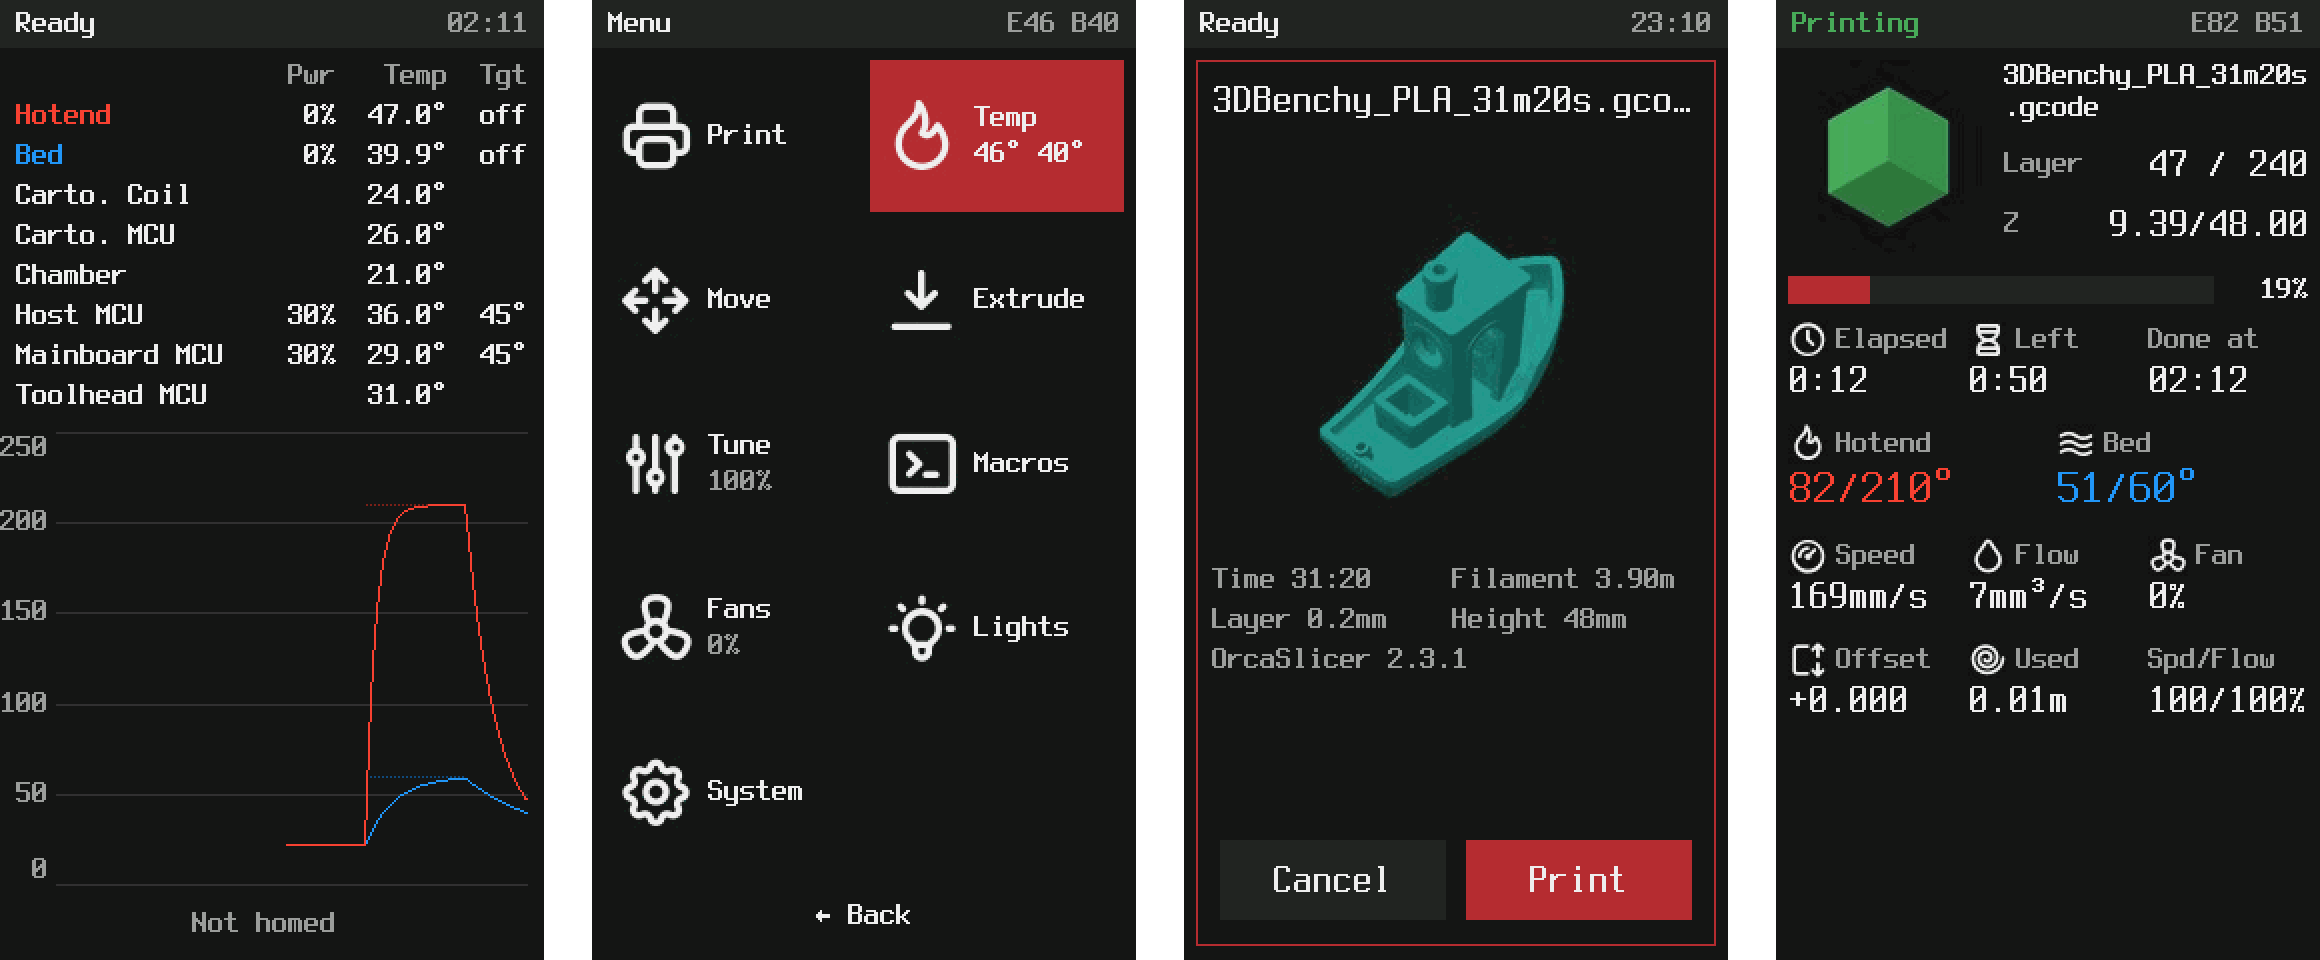
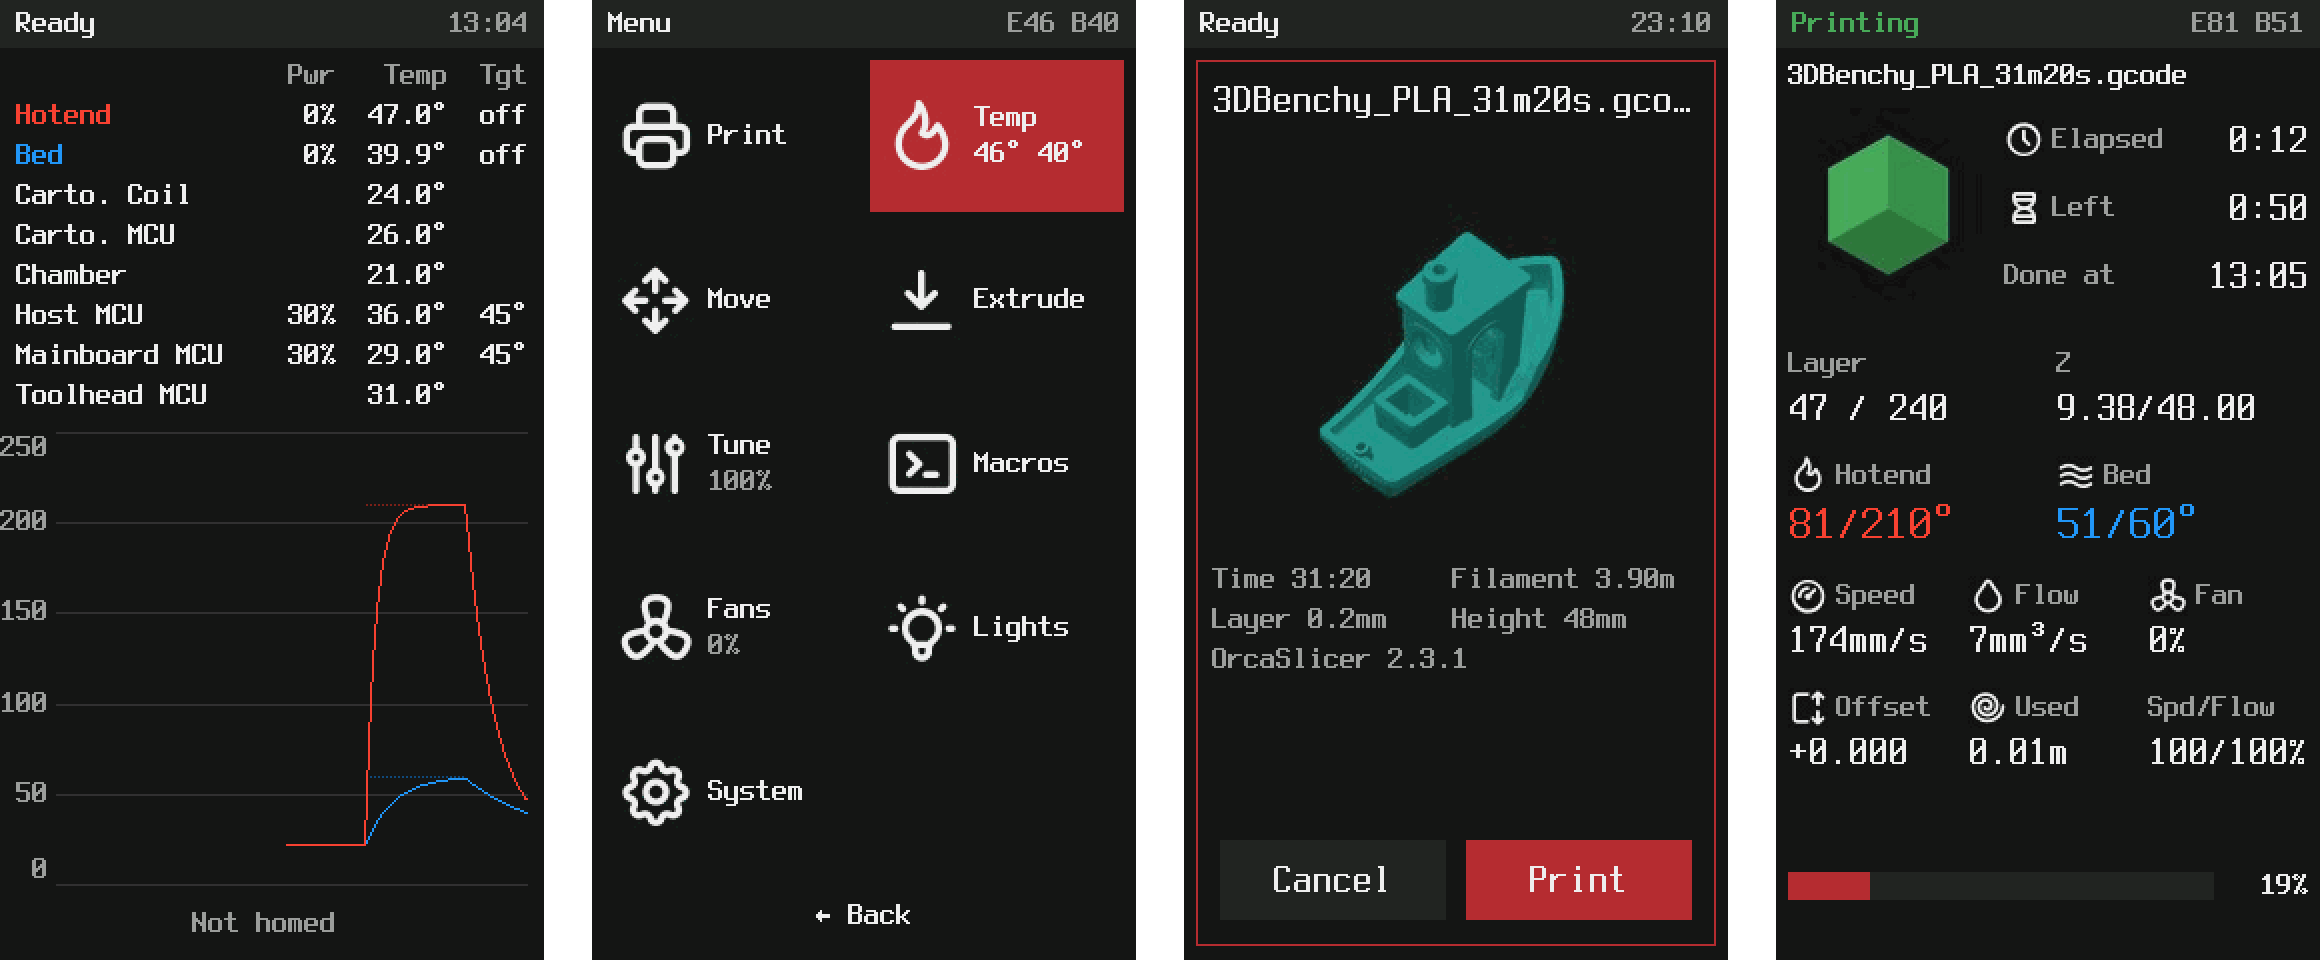
Printing screen: roomier layout, progress bar at the bottom
The file name runs across the top, the times sit beside the thumbnail,
and layer/Z, temperatures, motion and usage get evenly spaced rows. The
progress bar moves down above the hint.

diff --git a/dwinui/ui/screens/printing.py b/dwinui/ui/screens/printing.py
@@ -47,50 +47,49 @@ class PrintingScreen(HeaderScreen):
             labels.append(Text(f"st.{key}.l", x, y, len(s), font=1, fg=t.DIM, value=s))
 
         T = t.HEADER_H   # layout below the title bar
-        name_chars = (p.WIDTH - 6 - RX) // p.FONTS[1][0]
-        # Top: thumbnail, and beside it the file name, layer and Z.
-        self.thumb = Thumbnail("st.thumb", 6, T + 6, THUMB, t.BG)
-        self.file1 = Text("st.file1", RX, T + 6, name_chars, font=1)
-        self.file2 = Text("st.file2", RX, T + 22, name_chars, font=1)
-        label("layer", RX, T + 50, "Layer", icon=False)
-        self.layer = Text("st.layer", p.WIDTH - 6 - 9 * 10, T + 48, 9, font=2, align="right")
-        label("zh", RX, T + 80, "Z", icon=False)
-        self.z = Text("st.z", p.WIDTH - 6 - 13 * 10, T + 78, 13, font=2, align="right")
-        # Progress.
-        self.bar = Bar("st.bar", (6, T + 114, p.WIDTH - 6 - 48, T + 127))
-        self.percent = Text("st.pct", p.WIDTH - 6 - 5 * 8, T + 113, 5, font=1, align="right")
-        # Times.
-        label("elapsed", COLS[0], T + 138, "Elapsed")
-        label("remaining", COLS[1], T + 138, "Left")
-        label("done", COLS[2], T + 138, "Done at", icon=False)
-        self.elapsed = Text("st.elapsed", COLS[0], T + 156, 8, font=2)
-        self.remaining = Text("st.remaining", COLS[1], T + 156, 8, font=2)
-        self.finish = Text("st.finish", COLS[2], T + 156, 8, font=2)
+        # Top: the file name, then the thumbnail with the times beside it.
+        self.file = Text("st.file", 6, T + 6, (p.WIDTH - 12) // p.FONTS[1][0], font=1)
+        self.thumb = Thumbnail("st.thumb", 6, T + 30, THUMB, t.BG)
+        value_x = p.WIDTH - 6 - 7 * 10
+        for i, (key, s, icon) in enumerate((("elapsed", "Elapsed", True),
+                                             ("remaining", "Left", True),
+                                             ("done", "Done at", False))):
+            label(key, RX, T + 38 + 34 * i, s, icon=icon)
+        self.elapsed = Text("st.elapsed", value_x, T + 36, 7, font=2, align="right")
+        self.remaining = Text("st.remaining", value_x, T + 70, 7, font=2, align="right")
+        self.finish = Text("st.finish", value_x, T + 104, 7, font=2, align="right")
+        # Layer and Z.
+        label("layer", COLS[0], T + 150, "Layer", icon=False)
+        label("zh", 140, T + 150, "Z", icon=False)
+        self.layer = Text("st.layer", COLS[0], T + 170, 13, font=2)
+        self.z = Text("st.z", 140, T + 170, 13, font=2)
         # Temperatures.
-        label("hotend", COLS[0], T + 190, "Hotend")
-        label("bed", 140, T + 190, "Bed")
-        self.hotend = Text("st.hotend", COLS[0], T + 208, 9, font=3, fg=t.HOT)
-        self.bed = Text("st.bed", 140, T + 208, 9, font=3, fg=t.HOT)
+        label("hotend", COLS[0], T + 206, "Hotend")
+        label("bed", 140, T + 206, "Bed")
+        self.hotend = Text("st.hotend", COLS[0], T + 226, 9, font=3, fg=t.HOT)
+        self.bed = Text("st.bed", 140, T + 226, 9, font=3, fg=t.HOT)
         # Live motion.
-        label("speed", COLS[0], T + 246, "Speed")
-        label("flow", COLS[1], T + 246, "Flow")
-        label("fan", COLS[2], T + 246, "Fan")
-        self.speed = Text("st.speed", COLS[0], T + 264, 8, font=2)
-        self.flow = Text("st.flow", COLS[1], T + 264, 8, font=2)
-        self.fan = Text("st.fan", COLS[2], T + 264, 8, font=2)
+        label("speed", COLS[0], T + 266, "Speed")
+        label("flow", COLS[1], T + 266, "Flow")
+        label("fan", COLS[2], T + 266, "Fan")
+        self.speed = Text("st.speed", COLS[0], T + 286, 8, font=2)
+        self.flow = Text("st.flow", COLS[1], T + 286, 8, font=2)
+        self.fan = Text("st.fan", COLS[2], T + 286, 8, font=2)
         # Adjustments and usage.
-        label("offset", COLS[0], T + 298, "Offset")
-        label("filament", COLS[1], T + 298, "Used")
-        label("factors", COLS[2], T + 298, "Spd/Flow", icon=False)
-        self.offset = Text("st.offset", COLS[0], T + 316, 8, font=2)
-        self.filament = Text("st.filament", COLS[1], T + 316, 8, font=2)
-        self.factors = Text("st.factors", COLS[2], T + 316, 8, font=2)
-        # M117 / Klipper message, and the hint after the job.
-        self.message1 = Text("st.msg1", 6, T + 350, 32, font=1, fg=t.DIM)
-        self.message2 = Text("st.msg2", 6, T + 366, 32, font=1, fg=t.DIM)
-        self.hint = Text("st.hint", 0, 452, 34, font=1, fg=t.DIM, align="center")
+        label("offset", COLS[0], T + 322, "Offset")
+        label("filament", COLS[1], T + 322, "Used")
+        label("factors", COLS[2], T + 322, "Spd/Flow", icon=False)
+        self.offset = Text("st.offset", COLS[0], T + 342, 8, font=2)
+        self.filament = Text("st.filament", COLS[1], T + 342, 8, font=2)
+        self.factors = Text("st.factors", COLS[2], T + 342, 8, font=2)
+        # M117 / Klipper message, progress, and the hint after the job.
+        self.message1 = Text("st.msg1", 6, T + 372, 32, font=1, fg=t.DIM)
+        self.message2 = Text("st.msg2", 6, T + 388, 32, font=1, fg=t.DIM)
+        self.bar = Bar("st.bar", (6, T + 412, p.WIDTH - 6 - 48, T + 425))
+        self.percent = Text("st.pct", p.WIDTH - 6 - 5 * 8, T + 411, 5, font=1, align="right")
+        self.hint = Text("st.hint", 0, 456, 34, font=1, fg=t.DIM, align="center")
         self.widgets += labels + [
-            self.thumb, self.file1, self.file2, self.layer, self.z, self.bar, self.percent,
+            self.thumb, self.file, self.layer, self.z, self.bar, self.percent,
             self.elapsed, self.remaining, self.finish, self.hotend, self.bed, self.speed, self.flow,
             self.fan, self.offset, self.filament, self.factors, self.message1, self.message2, self.hint,
         ]
@@ -113,8 +112,8 @@ class PrintingScreen(HeaderScreen):
             self.thumb.jpeg = None
             asyncio.ensure_future(self._load_metadata(filename))
         name = (filename.rsplit("/", 1)[-1] or "No file loaded")
-        lines = wrap(name, self.file1.chars, 2) + ["", ""]
-        self.file1.value, self.file2.value = lines[0], lines[1]
+        chars = self.file.chars
+        self.file.value = name if len(name) <= chars else name[:chars - 1] + "…"
 
         current, total = self._layers()
         self.layer.value = f"{current or '-'} / {total or '-'}"
